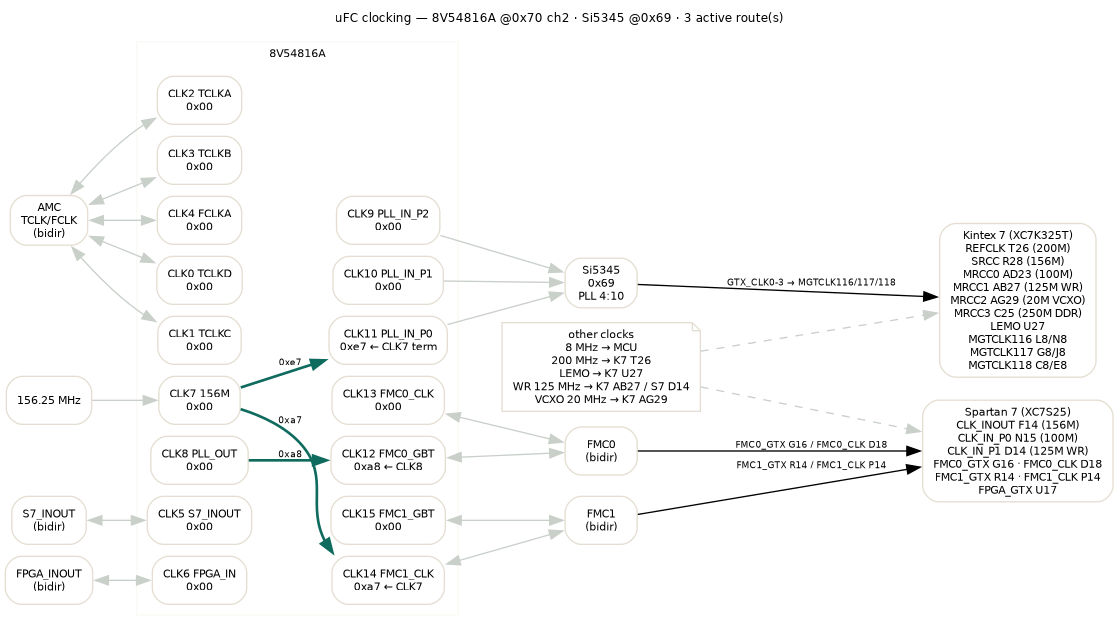
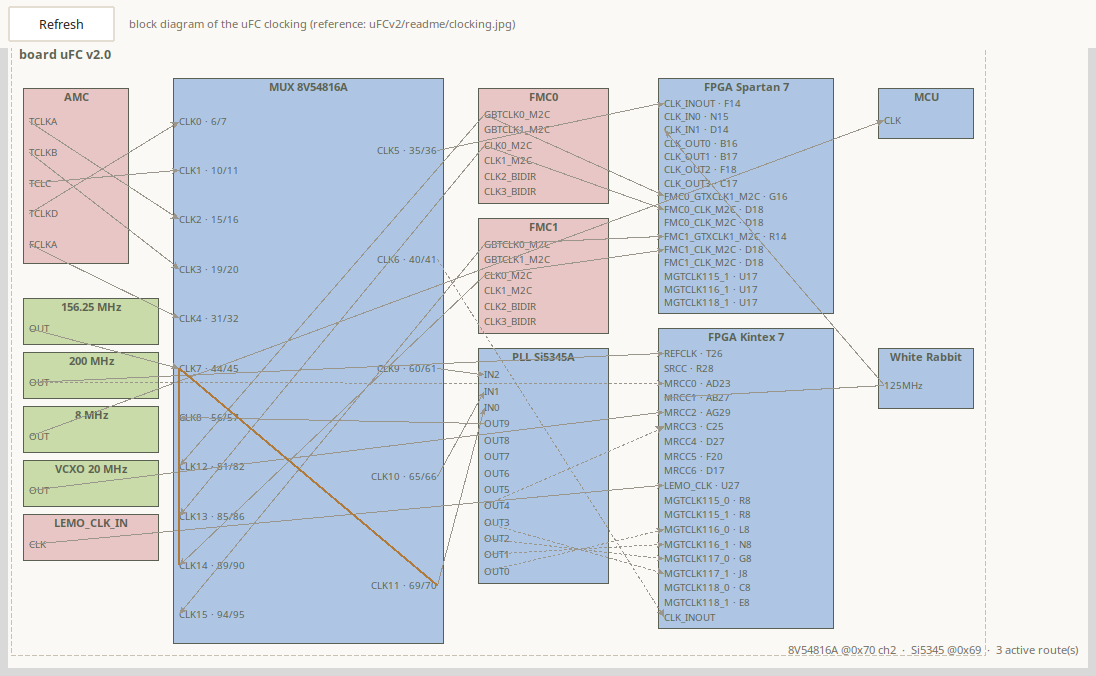
clocking: updated diagram from the file (board/chip/port boxes)
- device boxes re-laid out without overlaps and sized for their port
  count (S7 16, K7 19, PLL 13 ports now fit);
- the MUX is drawn in two columns (inputs left, outputs right) from the
  file's dir values, arrows derived from dir;
- docs/clocking.png and the toolbox screenshot regenerated from the
  canvas rendering; docs/clocking.dot regenerated from clocking.py;
  CLOCK_SWITCH.md notes the picture comes from ufc-clocking.json.
Binary rebuilt.

diff --git a/tools/uFC_toolbox/fru_gui_tk.py b/tools/uFC_toolbox/fru_gui_tk.py
@@ -600,7 +600,8 @@ class FruEditor(tk.Tk):
             pts = [p for p in doc.get("points", []) if p.get("parent") == did]
             ins = [p for p in pts if p["dir"] in ("in", "inout")]
             outs = [p for p in pts if p["dir"] == "out"]
-            columns = [(ins, x + 6, "w"), (outs, x + bw - 6, "e")] if did == "mux" and outs \
+            is_mux = did.upper() == "MUX" or str(dev.get("part", "")).startswith("8V54816A")
+            columns = [(ins, x + 6, "w"), (outs, x + bw - 6, "e")] if is_mux and outs \
                 else [(pts, x + 6, "w")]
             for col, cx, anch in columns:
                 if not col:

diff --git a/docs/CLOCK_SWITCH.md b/docs/CLOCK_SWITCH.md
@@ -14,6 +14,12 @@ the title:
 
 ![uFC clocking system with port configuration](clocking.png)
 
+The picture is rendered by the toolbox from
+[tools/clocking/ufc-clocking.json](../tools/clocking/ufc-clocking.json):
+one box per device (board → chip/connector/oscillator → ports), arrow
+direction derived from each point's `dir` (`out`→`in`), and the active
+8V54816A routing shown in orange.
+
 ## The device
 
 Renesas **8V54816A** — a 16-port clock switch. It is **not** a register-indexed
